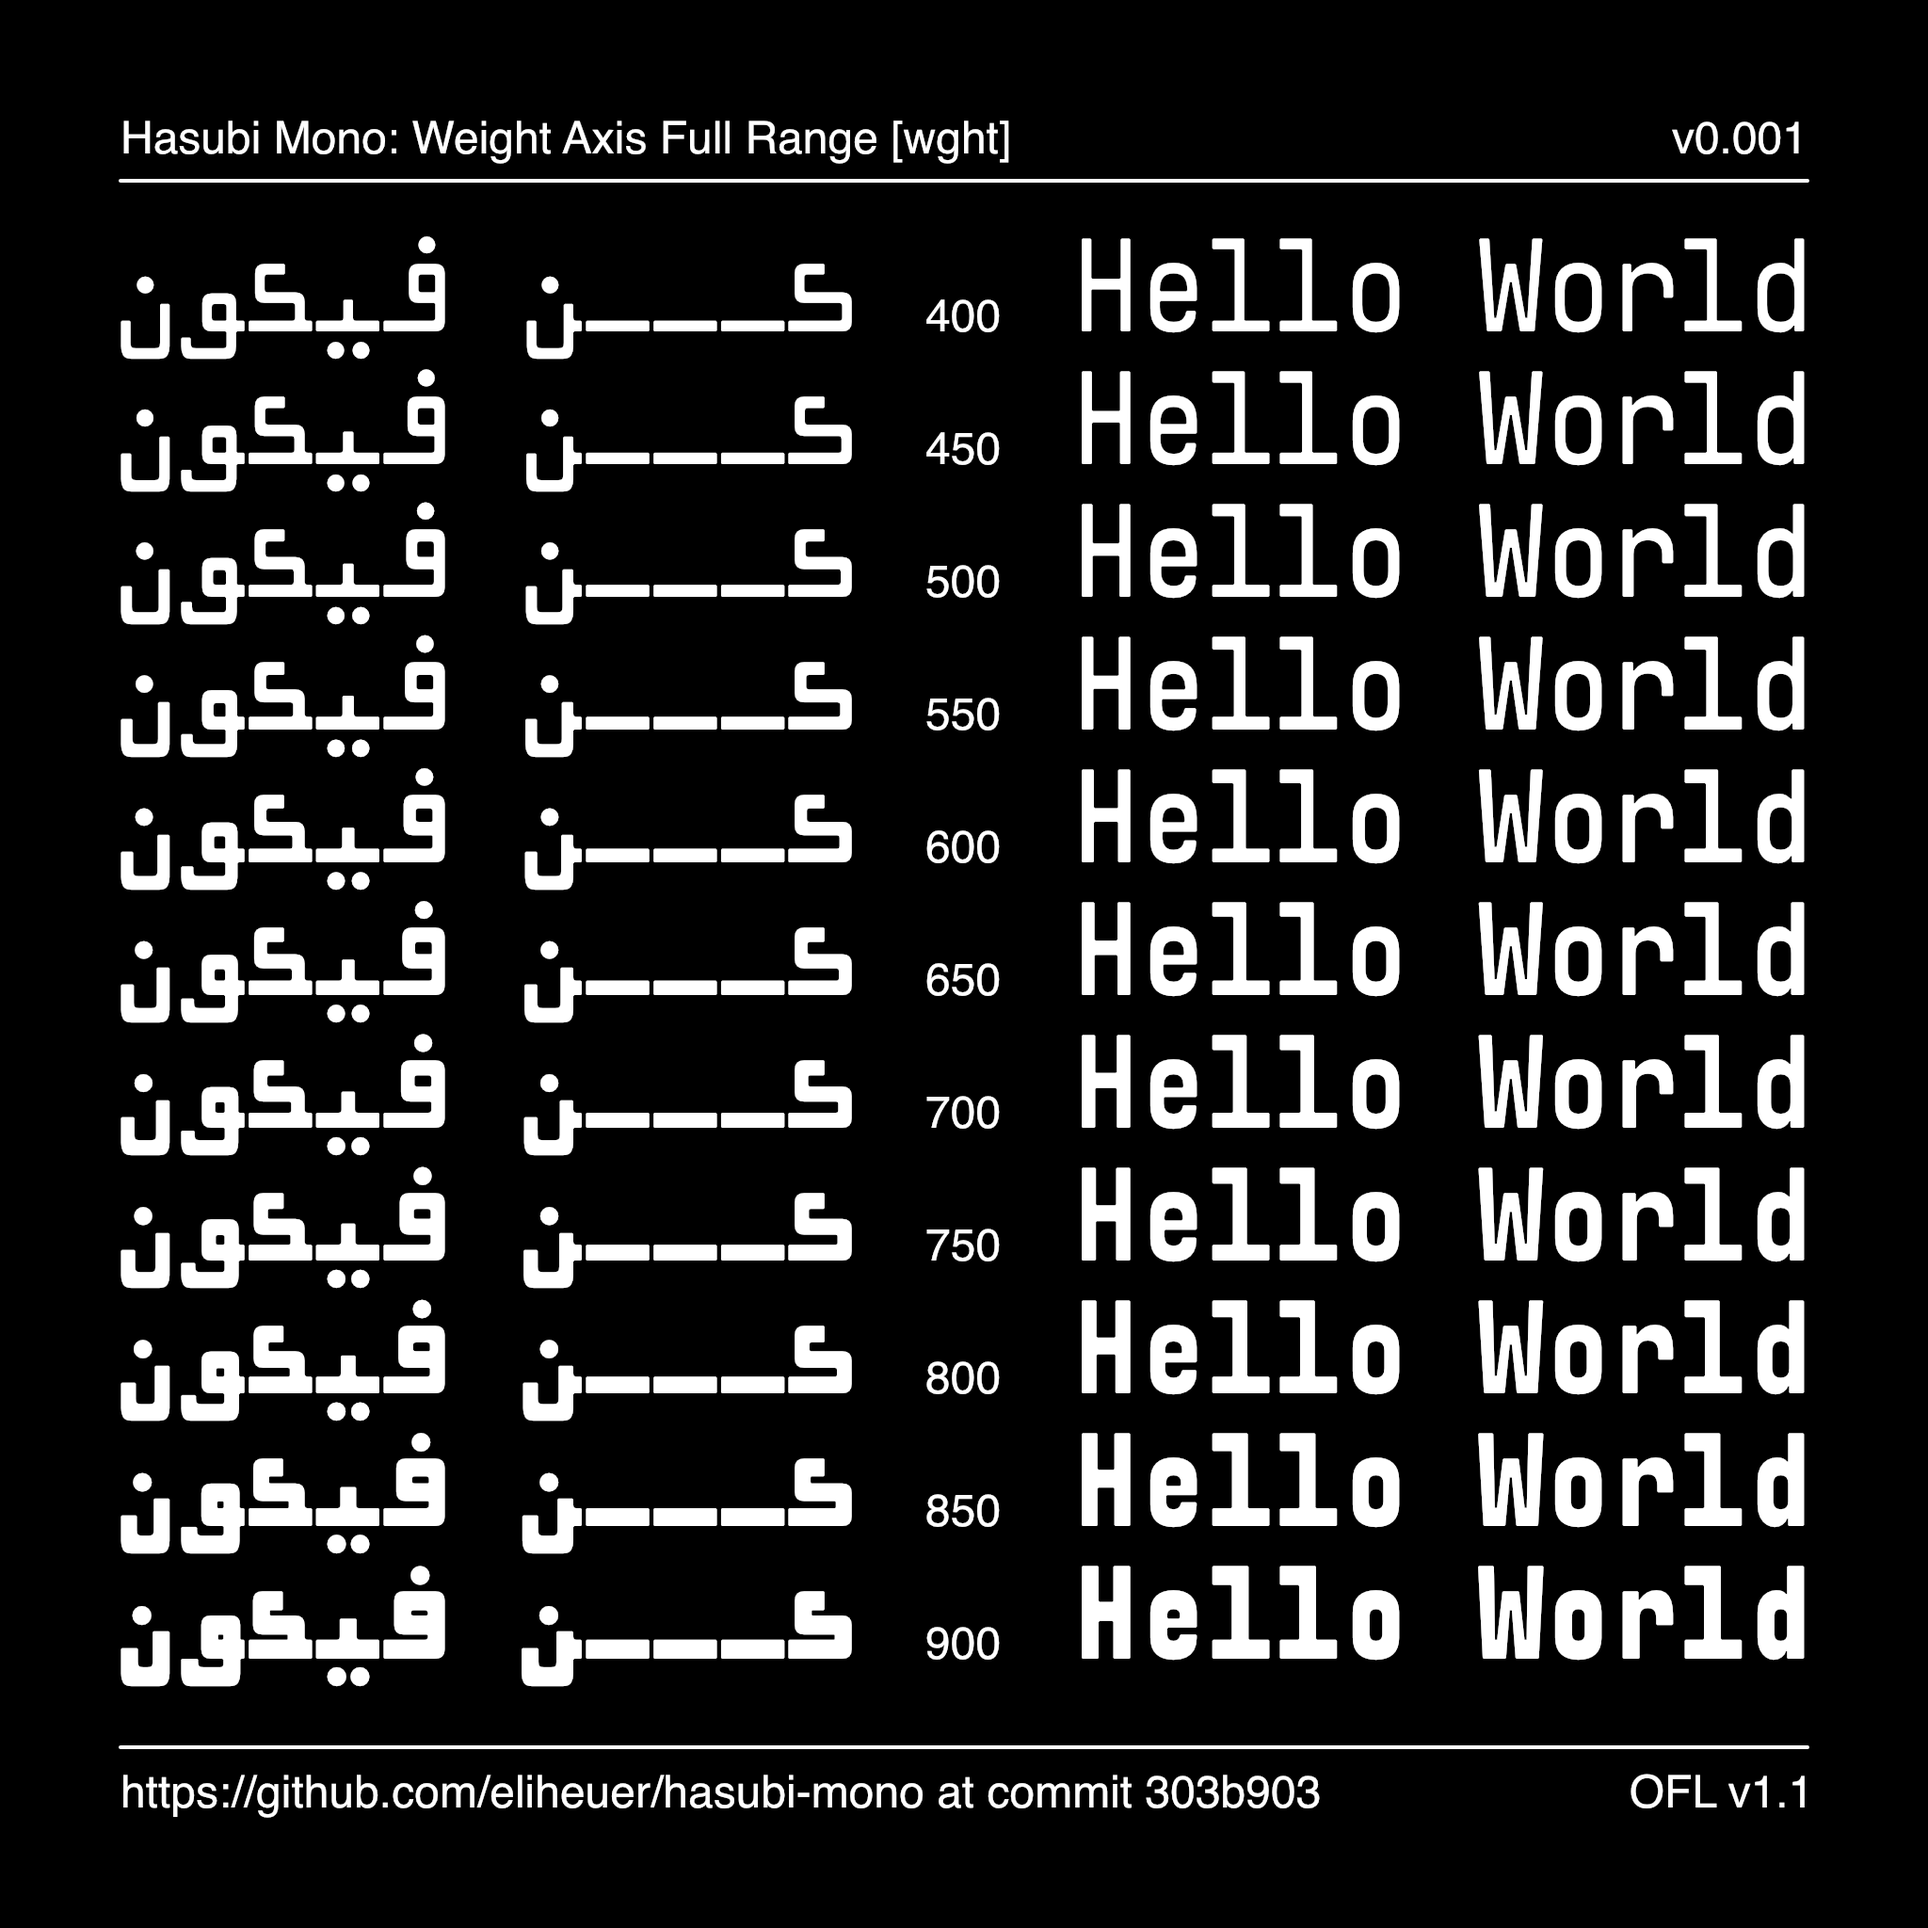
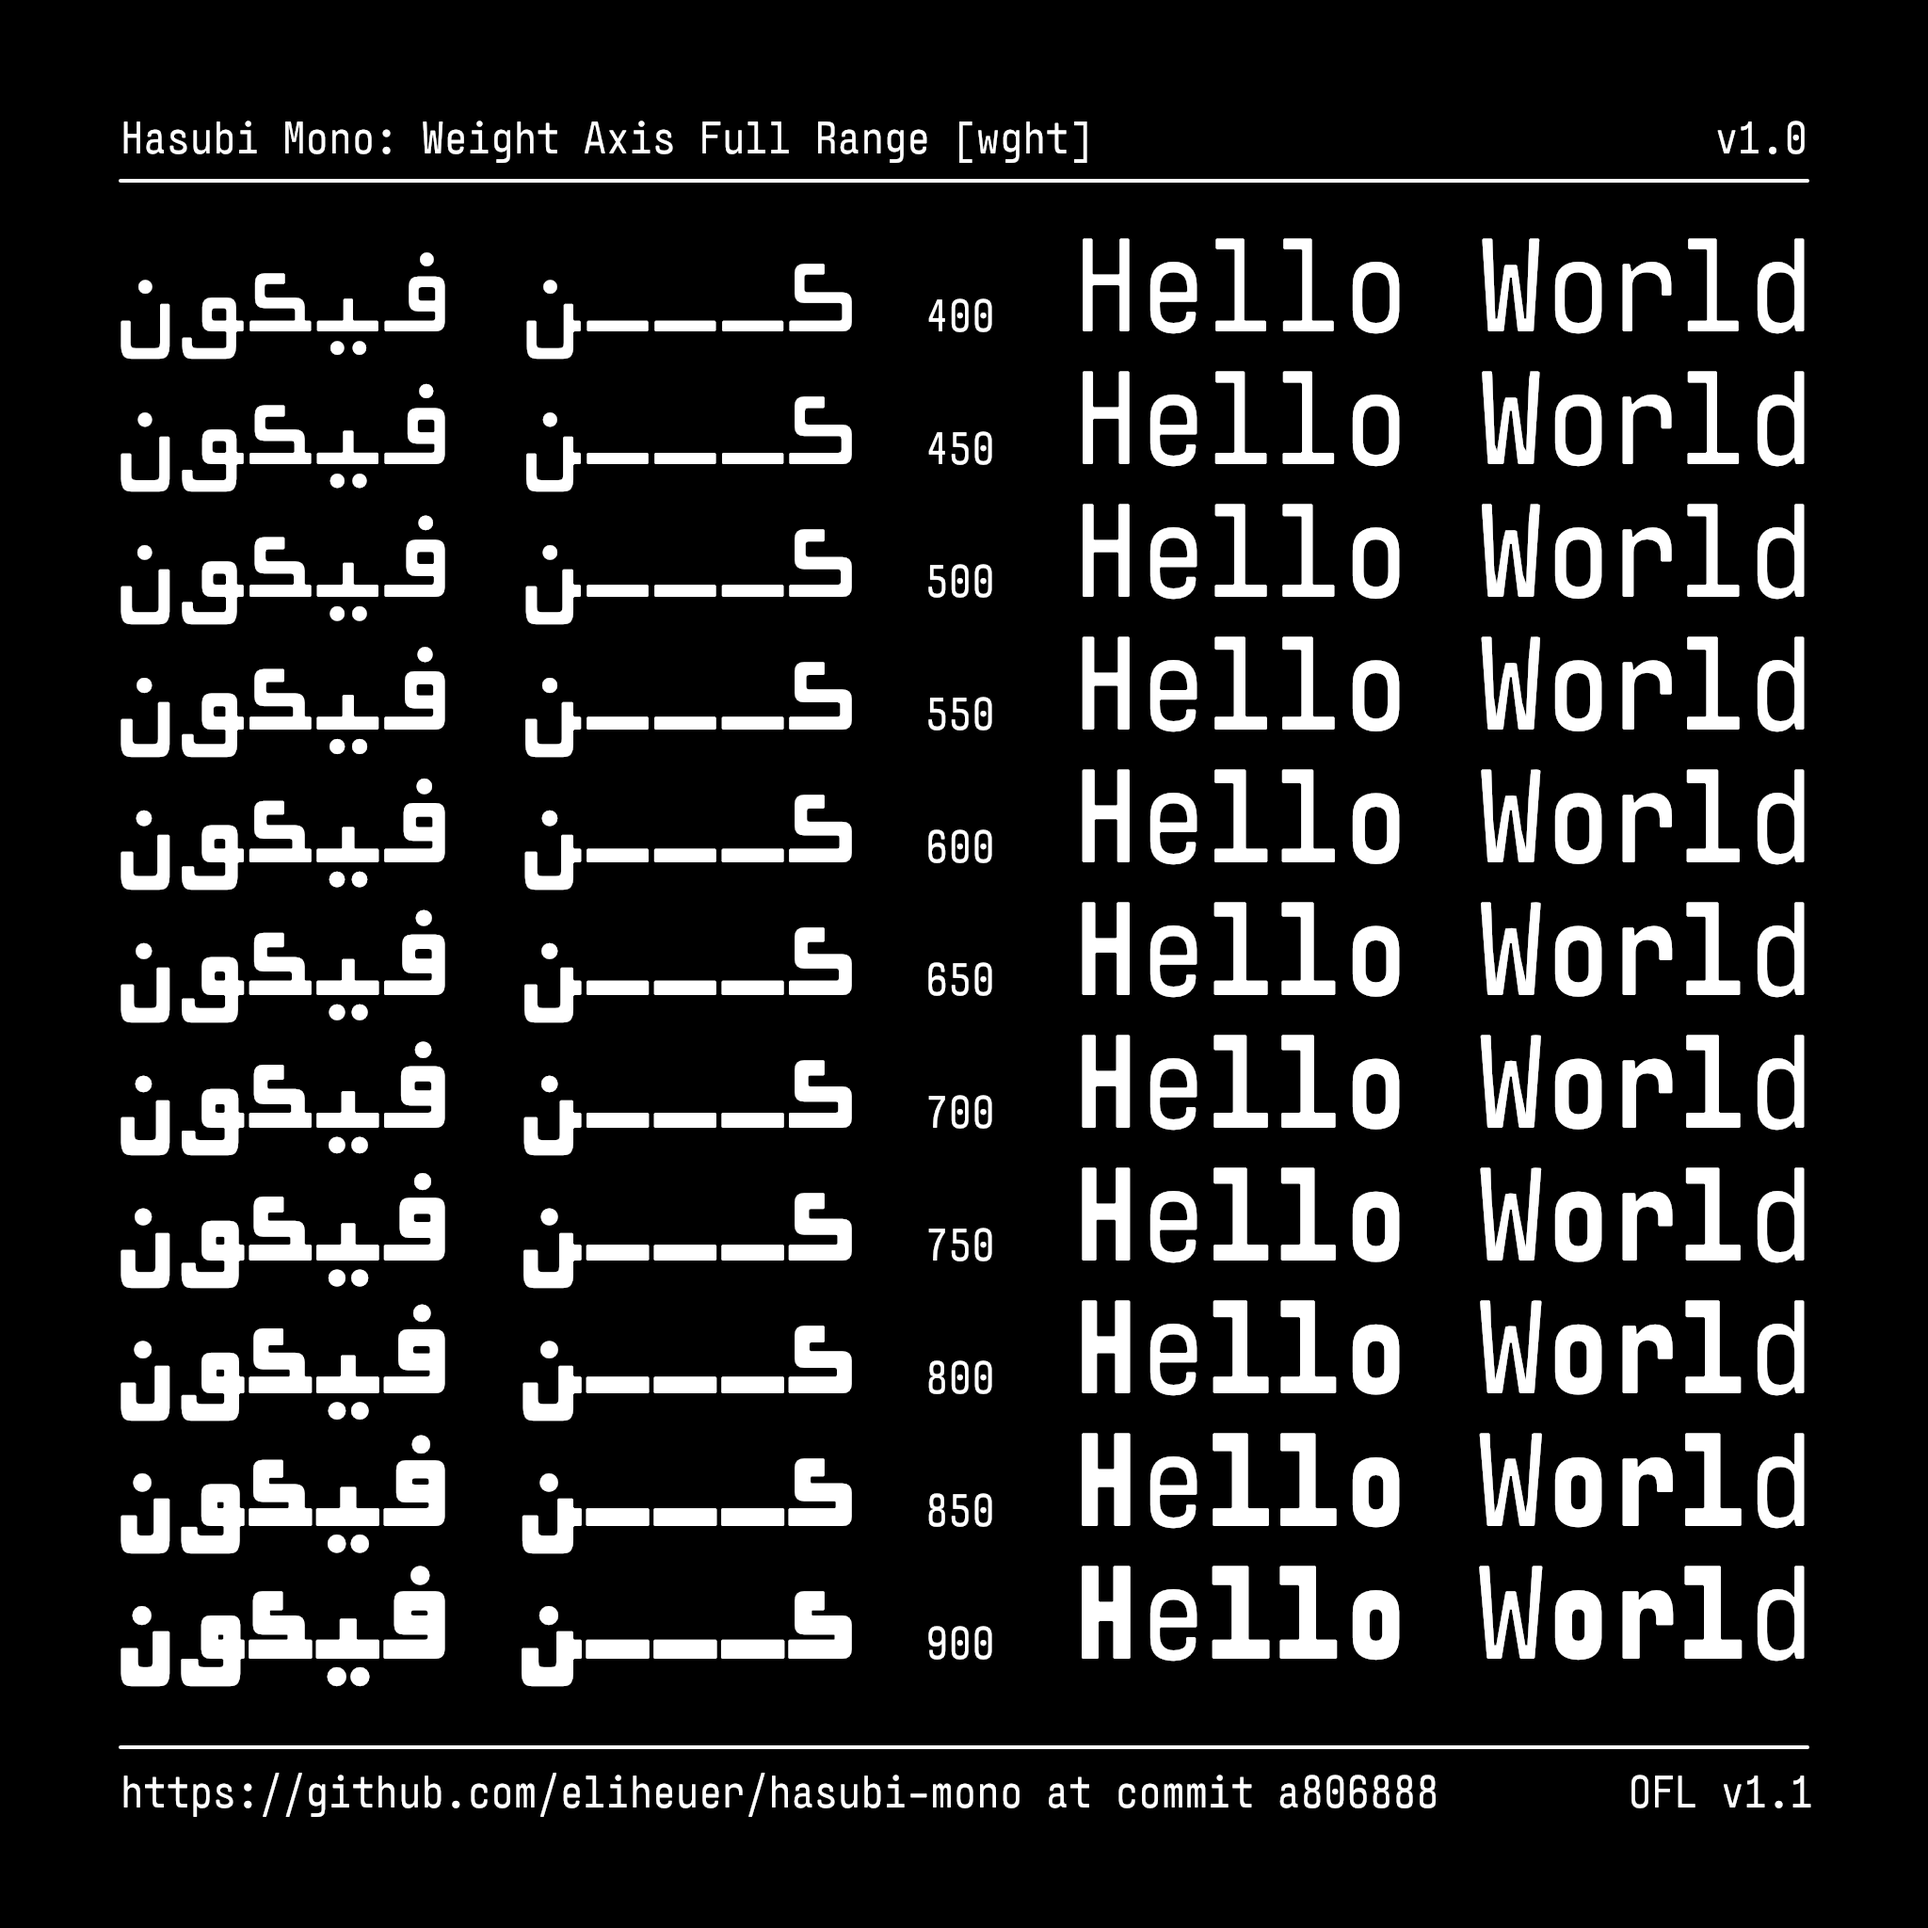
Update images and image source files

diff --git a/documentation/square-image-002.py b/documentation/square-image-002.py
@@ -1,8 +1,5 @@
-# This script is meant to be run from the root level
-# of your font's git repository. For example, from a Unix terminal:
-# $ git clone my-font
-# $ cd my-font
-# $ python3 documentation/image1.py --output documentation/image1.png
+# How to build(install skia-drawbot first):
+# $ python3 image.py --output image.png
 
 # Import moduels from external python packages: https://pypi.org/
 from drawbot_skia.drawbot import *
@@ -16,9 +13,10 @@ import argparse
 
 # Constants, these are the main "settings" for the image
 WIDTH, HEIGHT, MARGIN, FRAMES = 2048, 2048, 128, 1
-FONT_PATH = "fonts/Hasubi-Mono[wght].ttf"
+FONT_PATH = "specimen-fonts/Hasubi-Mono[wght].ttf"
 FONT_LICENSE = "OFL v1.1"
-AUXILIARY_FONT = "Helvetica"
+AUXILIARY_FONT = "specimen-fonts/Hasubi-Mono[wght].ttf"
+#AUXILIARY_FONT = "Helvetica"
 AUXILIARY_FONT_SIZE = 48
 BIG_TEXT = "Hello World"
 BIG_TEXT_B = "كـــن فيكون"
@@ -126,6 +124,7 @@ def draw_auxiliary_text():
     # Setup
     font(AUXILIARY_FONT)
     fontSize(AUXILIARY_FONT_SIZE)
+    fontVariations(wght = 400)
     POS_TOP_LEFT = (MARGIN, HEIGHT - MARGIN * 1.275)
     POS_TOP_RIGHT = (WIDTH - MARGIN, HEIGHT - MARGIN * 1.275)
     POS_BOTTOM_LEFT = (MARGIN, MARGIN)

diff --git a/documentation/square-image-001.py b/documentation/square-image-001.py
@@ -1,8 +1,5 @@
-# This script is meant to be run from the root level
-# of your font's git repository. For example, from a Unix terminal:
-# $ git clone my-font
-# $ cd my-font
-# $ python3 documentation/image1.py --output documentation/image1.png
+# How to build(install skia-drawbot first):
+# $ python3 image.py --output image.png
 
 # Import moduels from external python packages: https://pypi.org/
 from drawbot_skia.drawbot import *
@@ -16,9 +13,10 @@ import argparse
 
 # Constants, these are the main "settings" for the image
 WIDTH, HEIGHT, MARGIN, FRAMES = 2048, 2048, 128, 1
-FONT_PATH = "fonts/Hasubi-Mono[wght].ttf"
+FONT_PATH = "specimen-fonts/Hasubi-Mono[wght].ttf"
 FONT_LICENSE = "OFL v1.1"
-AUXILIARY_FONT = "Helvetica"
+AUXILIARY_FONT = "specimen-fonts/Hasubi-Mono[wght].ttf"
+#AUXILIARY_FONT = "Helvetica"
 AUXILIARY_FONT_SIZE = 48
 BIG_TEXT = "كـــن فيكون"
 BIG_TEXT_B = "Hello World"
